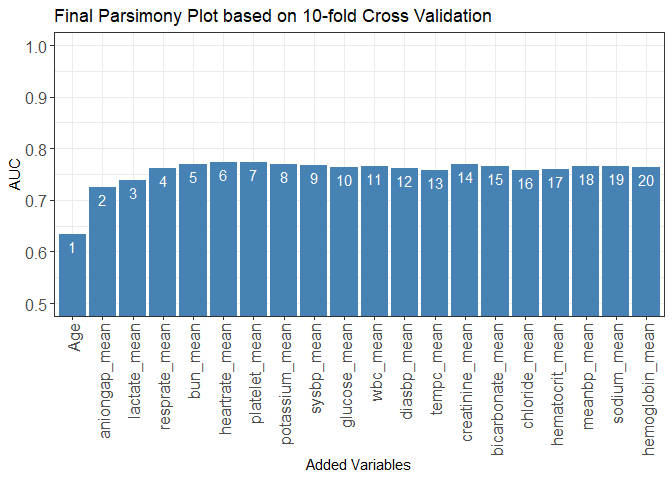
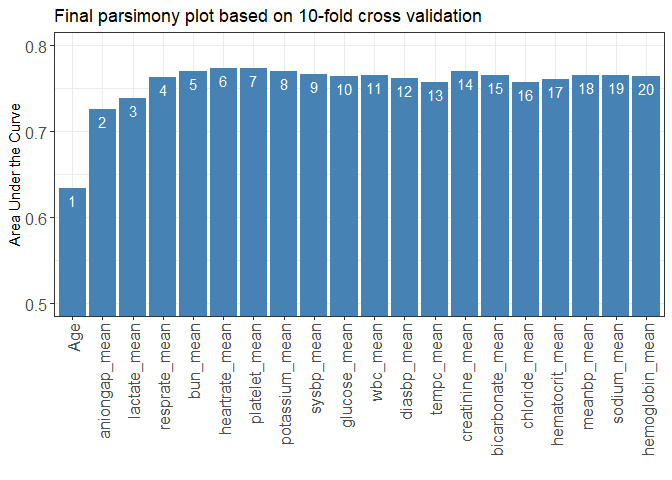
update0.2.1

diff --git a/README.md b/README.md
@@ -309,6 +309,10 @@ ranking <- AutoScore_rank(train_set, ntree = 100)
   - `max_cluster`: The max number of cluster (Default: 5). Available if
     `categorize = "kmeans"`.
   - `max_score`: Maximum total score (Default: 100).
+  - `auc_lim_min`: y-axis limits (Min) of the parsimony plot (Default:
+    0.5)
+  - `auc_lim_max`: y-axis limits (max) of the parsimony plot (Default:
+    `"adaptive"`)
 
 <!-- end list -->
 
@@ -321,7 +325,9 @@ AUC <- AutoScore_parsimony(
     n_min = 1,
     n_max = 20,
     categorize = "quantile",
-    quantiles = c(0, 0.05, 0.2, 0.8, 0.95, 1)
+    quantiles = c(0, 0.05, 0.2, 0.8, 0.95, 1),
+    auc_lim_min = 0.5,
+    auc_lim_max = "adaptive"
   )
 #> Select 1 Variable(s):  Area under the curve: 0.6649
 #> Select 2 Variable(s):  Area under the curve: 0.7466
@@ -703,6 +709,10 @@ ranking <- AutoScore_rank(train_set, ntree = 100)
   - `do_trace` If set to `TRUE`, all results based on each fold of
     cross-validation would be printed out and plotted (Default:
     `FALSE`). Available if `cross_validation = TRUE`.
+  - `auc_lim_min`: y-axis limits (Min) of the parsimony plot (Default:
+    0.5)
+  - `auc_lim_max`: y-axis limits (max) of the parsimony plot (Default:
+    `"adaptive"`)
 
 <!-- end list -->
 
@@ -718,7 +728,9 @@ AUC <- AutoScore_parsimony(
     categorize = "quantile",
     fold = 10,
     quantiles = c(0, 0.25, 0.5, 0.75, 1), #c(0, 0.05, 0.2, 0.8, 0.95, 1)
-    do_trace = FALSE
+    do_trace = FALSE,
+    auc_lim_min = 0.5,
+    auc_lim_max = "adaptive"
   )
 #> ***list of final mean AUC values through cross-validation are shown below 
 #>    auc_set.sum
